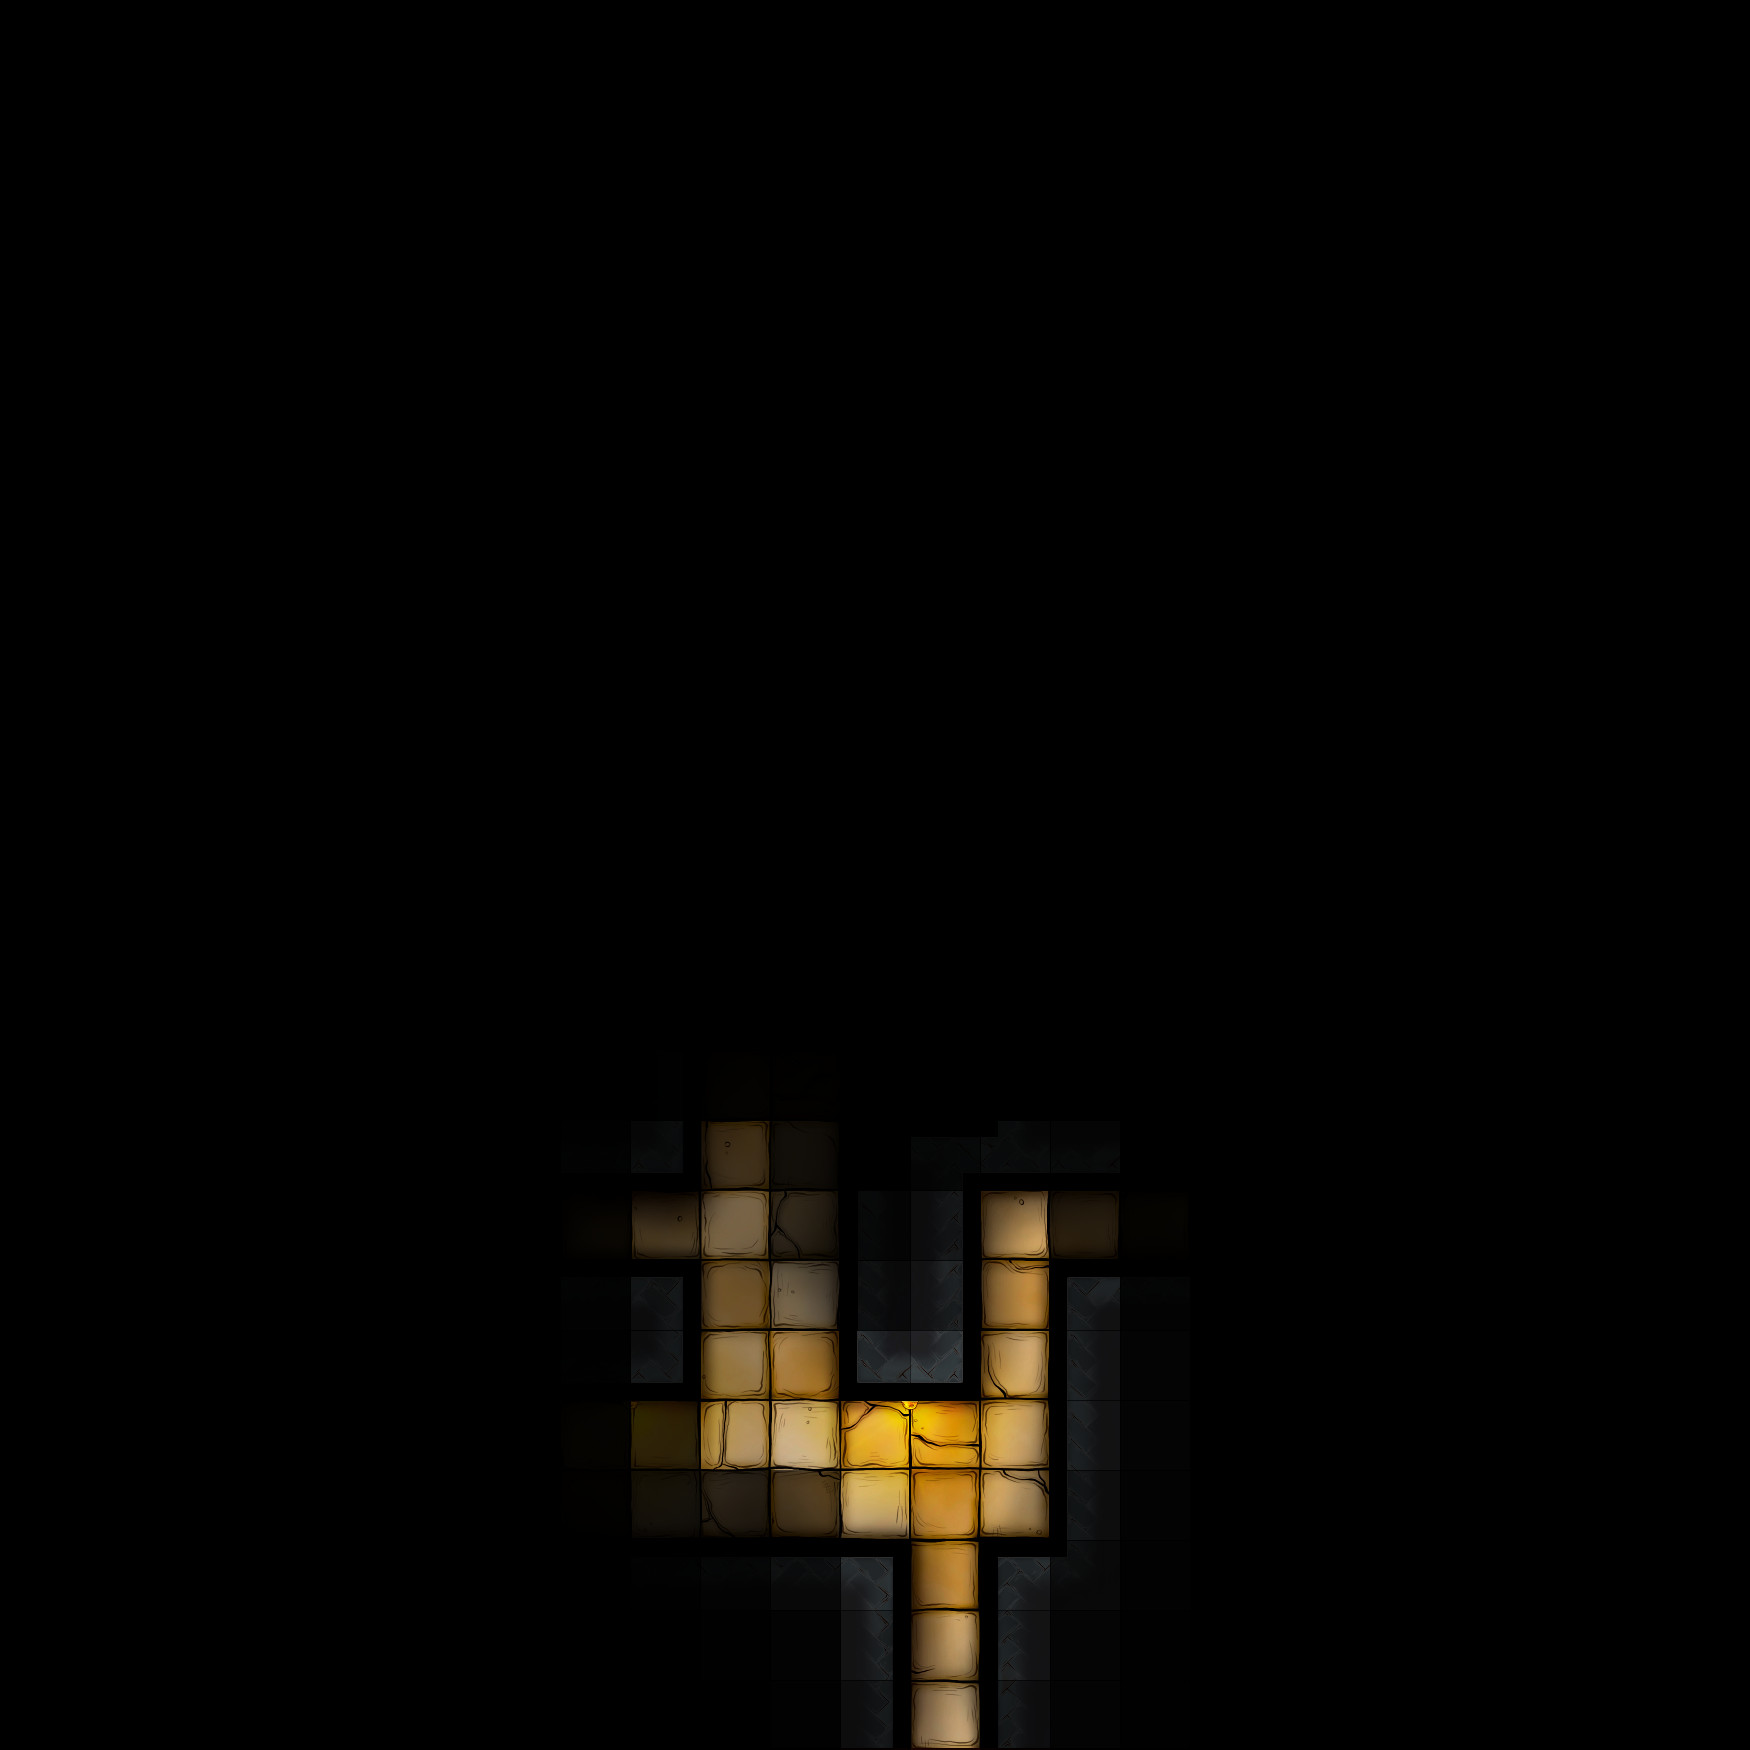
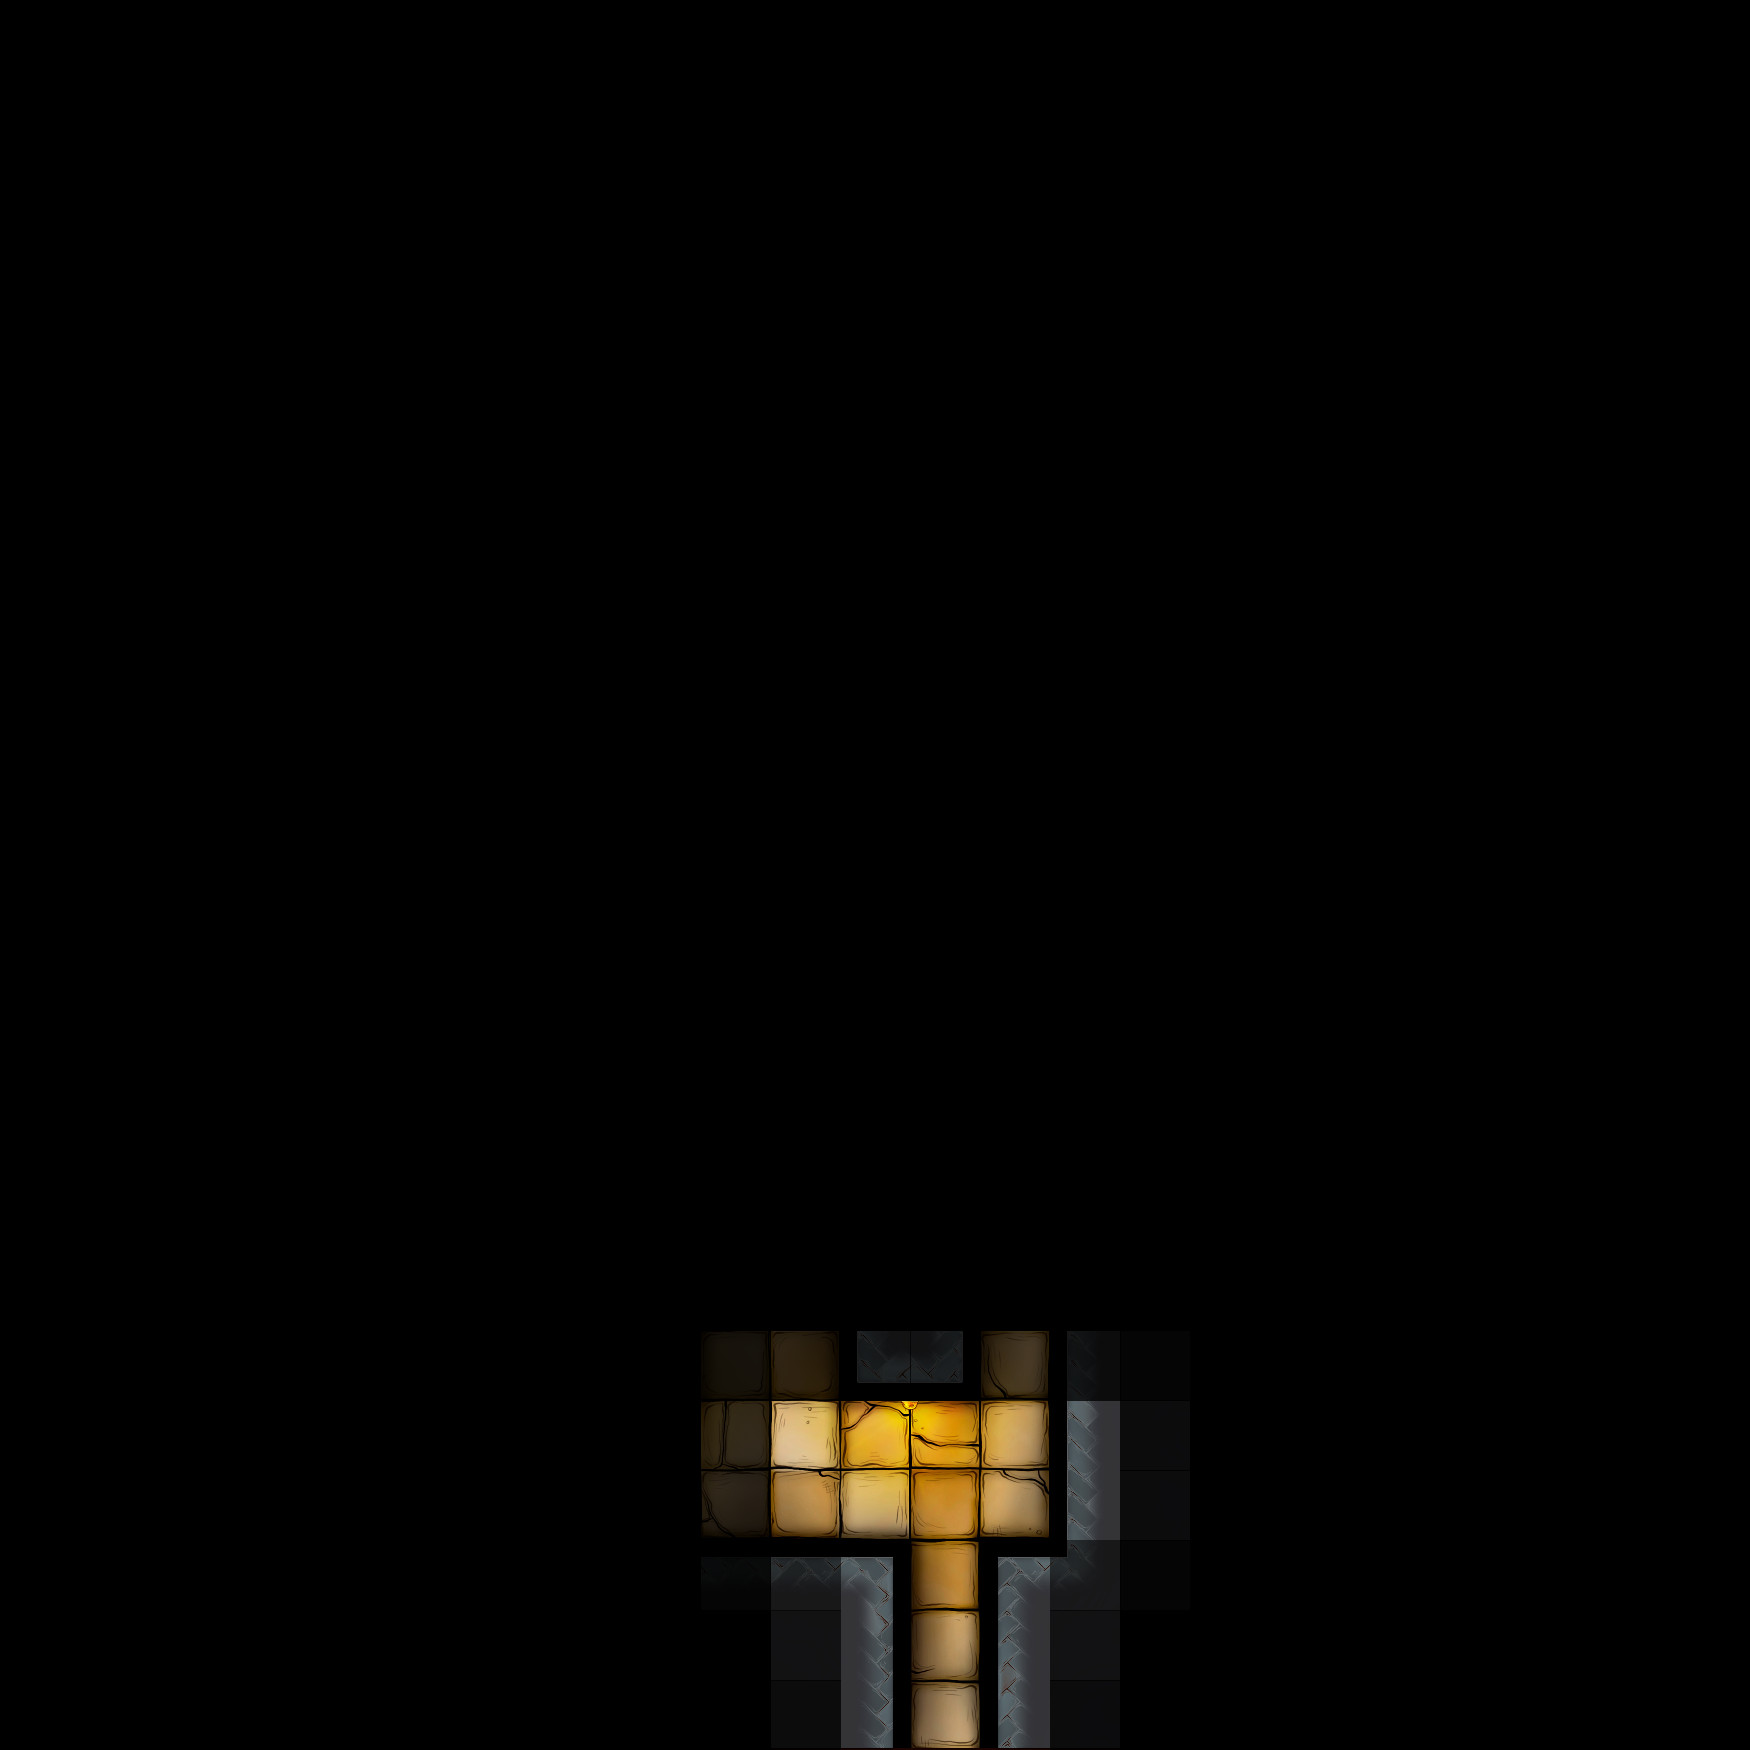
Cambio de tablero

Changed region(s): [[0.3394, 0.6171, 0.5246, 1.0], [0.5246, 0.6789, 0.648, 1.0]]

diff --git a/js/load.js b/js/load.js
@@ -3,7 +3,7 @@ async function getBoard(idBoard){
 	const rq = new XMLHttpRequest();
 	rq.open("GET", "rq/getBoard.php?idBoard="+idBoard);
 	rq.send();
-	rq.onreadystatechange = function(e) {
+	rq.onreadystatechange = async function(e) {
 		if(rq.readyState === XMLHttpRequest.DONE && rq.status === 200){
 			var s = rq.responseText;
 			board = JSON.parse(s);
@@ -11,9 +11,11 @@ async function getBoard(idBoard){
 
 			// BG
 			var canvasBg = document.getElementById("canvas_bg");
+			await fadeOutScreen(1000);
 			canvasBg.style.backgroundImage = "url(img/bg/"+board.bg+".jpg)";
+			await fadeInScreen(1000);
 			canvasBg.style.backgroundRepeat = "no-repeat";
-			canvasBg.style.opacity=1;
+			//canvasBg.style.opacity=1;
 			canvasBg.style.zIndex=1;
 			canvasBg.style.position = "absolute";
 			canvasBg.style.width = (parseInt(board.tilew)*parseInt(board.ntilesw))+0.5*board.tilew+100+"px";
@@ -21,6 +23,7 @@ async function getBoard(idBoard){
 
 			var canvas = document.getElementById("canvas");
 			canvas.style.zIndex=2;
+			//canvas.style.opacity=1;
 			canvas.style.position = "absolute";
 			canvas.style.left=0;
 			canvas.style.top=0;
@@ -59,11 +62,10 @@ async function getTokens(idBoard, fromActionId=null){
 		var s = rq.responseText;
 		//console.log(s);
 		var arrUpdatedTokens = JSON.parse(s);
-		//console.log("--- Llegan "+arrUpdatedTokens.length+" nuevos tokens");
-		//console.log(arrUpdatedTokens);
 		// Create arr tokens
 		for(var i=0; i<arrUpdatedTokens.length; i++){
 			var newToken = arrUpdatedTokens[i];	// Updated token
+			//console.log("NUEVO "+newToken.name);
 			var token = getTokenByName(arrUpdatedTokens[i].name);
 			if (token==null){	// Es un nuevo token
 				token = newToken;
@@ -163,12 +165,6 @@ async function getTokens(idBoard, fromActionId=null){
 
 				arrTokens.push(token);
 				canvas.appendChild(token.div);
-
-				// A new PC token
-				if (token.pc == 1){
-					//var w = board.ntilesw*board.tilew;
-					//var h = board.ntilesh*board.tileh;
-				}
 
 				var bPj= document.getElementById("b"+token.name);
 				if (bPj!=null){

diff --git a/js/main.js b/js/main.js
@@ -14,6 +14,7 @@ var touch = {
 }
 var reScrollTop = new RegExp(/scrollTop=(\d+)/);
 var reScrollLeft = new RegExp(/scrollLeft=(\d+)/);
+var reBoardId = new RegExp(/boardId=(\d+)/);
 
 var movement;
 
@@ -160,10 +161,16 @@ function checkUpdates(){
 	var rq = new XMLHttpRequest();
 	rq.open("GET", "rq/getLastActionId.php?idBoard="+board.id);
 	rq.send();
-	rq.onreadystatechange = function () {
+	rq.onreadystatechange = async function () {
 		if (rq.readyState == XMLHttpRequest.DONE && rq.status == 200){
 			var s = rq.responseText;
 			remoteLastAction = JSON.parse(s);
+
+			// Change of board
+			if(board.id != remoteLastAction.boardId){
+				document.cookie = "boardId="+remoteLastAction.boardId+";samesite=strict";
+				main();
+			}
 
 			// Update Board
 			//console.log(board.bgTs+" "+remoteLastAction.bgTs);
@@ -274,8 +281,11 @@ window.addEventListener("DOMContentLoaded", function() {
 });
 
 async function main(){
-	var BOARD = 2;
-	await getBoard(BOARD);	/* Number of board */
+	removeAllLoadedTokens();
+	var boardId = document.cookie.match(reBoardId)[1];
+	//console.log("LOADING BOARD ID "+boardId);
+	if (boardId==null) boardId = 2;
+	await getBoard(boardId);	/* Number of board */
 	while(board==null)	{
 		await sleep(T_PRECISION);
 	}

diff --git a/js/animations.js b/js/animations.js
@@ -331,4 +331,38 @@ async function changeTokenOpacity(token, newVal){
 	token.div.style.opacity = newVal;
 }
 
+async function fadeOutScreen(duration){
+	if (duration==null) duration=1000;
+	var t0 = (new Date).getTime();
+	var tf = t0+duration;
+	var tt = tf-t0;
+	var t = 0.0;
+	const k = Math.PI/(2*tt);
+	while(t<tt){
+		var p = t/tt;
+		document.getElementById("canvas").style.opacity = 1-p;
+		document.getElementById("canvas_bg").style.opacity = 1-p;
+		await sleep(T_PRECISION);
+		t = (new Date).getTime() - t0;
+	}
+	document.getElementById("canvas").style.opacity = 0;
+	document.getElementById("canvas_bg").style.opacity = 0;
+}
+async function fadeInScreen(duration){
+	if (duration==null) duration=1000;
+	var t0 = (new Date).getTime();
+	var tf = t0+1000;
+	var tt = tf-t0;
+	var t = 0.0;
+	const k = Math.PI/(2*tt);
+	while(t<tt){
+		var p = t/tt;
+		document.getElementById("canvas").style.opacity = p;
+		document.getElementById("canvas_bg").style.opacity = p;
+		await sleep(T_PRECISION);
+		t = (new Date).getTime() - t0;
+	}
+	document.getElementById("canvas").style.opacity = p;
+	document.getElementById("canvas_bg").style.opacity = p;
+}
 

diff --git a/js/libGeneral.js b/js/libGeneral.js
@@ -191,7 +191,7 @@ async function updateHp(token){
 
 function updateBoardOutput(){
 	const rq = new XMLHttpRequest();
-	rq.open("GET", "rq/getActions.php?idBoard="+board.id+"&n=1");
+	rq.open("GET", "rq/getActions.php?idBoard="+board.id);
 	rq.send();
 	rq.onreadystatechange = function(e) {
 	if(rq.readyState === XMLHttpRequest.DONE && rq.status === 200){
@@ -472,6 +472,14 @@ function removeAllLoadedTokens(){
 			canvas.removeChild(divToken);
 		}
 	}
+	var svgPanelPc = document.getElementById("svgPanelPC");
+	if (svgPanelPc!=null){
+		while(svgPanelPC.childElementCount>0){
+			var child = svgPanelPC.lastChild;
+			document.getElementById("svgPanelPC").removeChild(child);
+		}
+		canvas.removeChild(svgPanelPc);
+	}
 	arrTokens.length = 0;
 }
 
@@ -512,6 +520,7 @@ async function removeToken(token){
 		canvas.removeChild(token.div);
 		token.x = board.ntilesw+1;
 		token.y = board.ntilesh+1;
+		token.div.style.opacity=0;
 	}
 }
 

diff --git a/index.html b/index.html
@@ -1,0 +1,22 @@
+<!DOCTYPE html>
+<head lang="es">
+	<title>Gea</title>
+	<meta http-equiv="Content-Type" content="text/html; charset=UTF-8" />
+	<meta name="viewport" content="initial-scale=1.0, maximum-scale=1.0, minimum-scale=1.0, user-scalable=no, width=device-width">
+	<meta name="apple-mobile-web-app-capable" content="yes">
+    <link rel="stylesheet" type="text/css" href="css/reset.css?t=1">
+	<script src='js/libGeneral.js?t=1'></script>
+
+
+</head>
+	<script>
+		document.cookie = "boardId=2;samesite=strict";
+	</script>
+<body id="body">
+	<main id="main">
+		<a href="board.php?boardId=2">GO TO BOARD</a>
+	</main>
+	<footer>
+	</footer>
+</body>
+</html>

diff --git a/css/master.css b/css/master.css
@@ -2,6 +2,10 @@ html {
 	background-color: white;
 }
 
+h1{
+	font-size: 2.4rem;
+	color: blue;
+}
 h3{
 	font-size: 1.4rem;
 	margin-top: 1rem;

diff --git a/master.php b/master.php
@@ -11,27 +11,41 @@
 </head>
 <body>
 	<main>
-	<?php
-	$idBoard = 1;
+<?php
 	include_once('rq/libSql.php');
 	include_once('rq/libControllers.php');
 	connectDB();
 	setup_lang();
-	$rs_tokens = get_tokens_by_board($idBoard);
-	while($token = mysqli_fetch_array($rs_tokens, MYSQLI_ASSOC)){
-		$attrs = get_attrs($idBoard, $token['name']);
-		echo "<h3>".$token['name']."</h3>";
-		echo "<table style='border:1;'>";
-		echo "<tr>";
-		foreach($attrs as $k=>$attr){
-			echo "<th>$k</th>";
+
+	$idBoard = secure_param('idBoard');
+	$rs_boards = get_all_boards();
+	echo "<select onchange='if(this.value) window.location.href=\"master.php?idBoard=\"+this.value'>";
+	echo "<option disabled='true' selected='selected'>SELECCIONE TABLERO</option>";
+	while ($board = mysqli_fetch_array($rs_boards, MYSQLI_ASSOC)){
+		echo "<option value='".$board['id']."'>".$board['name']."</option>";
+	}
+	echo "</select>";
+?>
+<?php
+	if ($idBoard!=null){
+		$board = get_board($idBoard);
+		echo "<h1>".$board->name."</h1>";
+		$rs_tokens = get_tokens_by_board($idBoard);
+		while($token = mysqli_fetch_array($rs_tokens, MYSQLI_ASSOC)){
+			$attrs = get_attrs($idBoard, $token['name']);
+			echo "<h3>".$token['name']."</h3>";
+			echo "<table style='border:1;'>";
+			echo "<tr>";
+			foreach($attrs as $k=>$attr){
+				echo "<th>$k</th>";
+			}
+			echo "</tr>";
+			foreach($attrs as $k=>$attr){
+				echo "<td><input type='text' name='attr_".$token['token_id']."_$k' class='attr_val' value='$attr'";
+				echo " onchange='attr_change(".$token['token_id'].",\"$k\",this.value);'></td>";
+			}
+			echo "</table>";
 		}
-		echo "</tr>";
-		foreach($attrs as $k=>$attr){
-			echo "<td><input type='text' name='attr_".$token['token_id']."_$k' class='attr_val' value='$attr'";
-			echo " onchange='attr_change(".$token['token_id'].",\"$k\",this.value);'></td>";
-		}
-		echo "</table>";
 	}
 ?>
 	</main>

diff --git a/rq/getLastActionId.php b/rq/getLastActionId.php
@@ -6,13 +6,12 @@ $idBoard = secure_param('idBoard');
 
 #$idBoard = 1;
 
-$lastId = read_last_actionId($idBoard);
 $bg_ts = get_bg_ts($idBoard);
-$q = "SELECT * FROM boards WHERE id=$idBoard LIMIT 1";
-$result = run_sql($q) or die();
-$row = mysqli_fetch_array($result, MYSQLI_ASSOC);
+$board = get_board($idBoard);
+$game = get_game(1);
 $ret = new stdClass();
-$ret->id = $row['lastActionId'];
+$ret->id = $board->lastActionId;
 $ret->bgTs = $bg_ts;
-$ret->turn = $row['turn'];
+$ret->turn = $board->turn;
+$ret->boardId = $game['board_id'];
 echo json_encode($ret, JSON_NUMERIC_CHECK);

diff --git a/rq/libSql.php b/rq/libSql.php
@@ -112,6 +112,12 @@ function get_board($idBoard){
 	return $ret;
 }
 
+function get_all_boards(){
+	$q = "SELECT * FROM boards";
+	$rs_boards = run_sql($q) or die();
+	return $rs_boards;
+}
+
 # Inser action in the DB table
 function insert_action($idBoard, $text){
 	global $db;

diff --git a/doc/changelog.md b/doc/changelog.md
@@ -5,6 +5,8 @@
 
 ## Versiones
 
+1.56	Cambio de tablero automático
+1.55	Luces con antorchas que portan los PJs
 1.54	Luces avanzadas cuyas fuentes se sacan de una tabla de la base de datos
 1.53	Permite dos tableros
 1.52	Inventario
